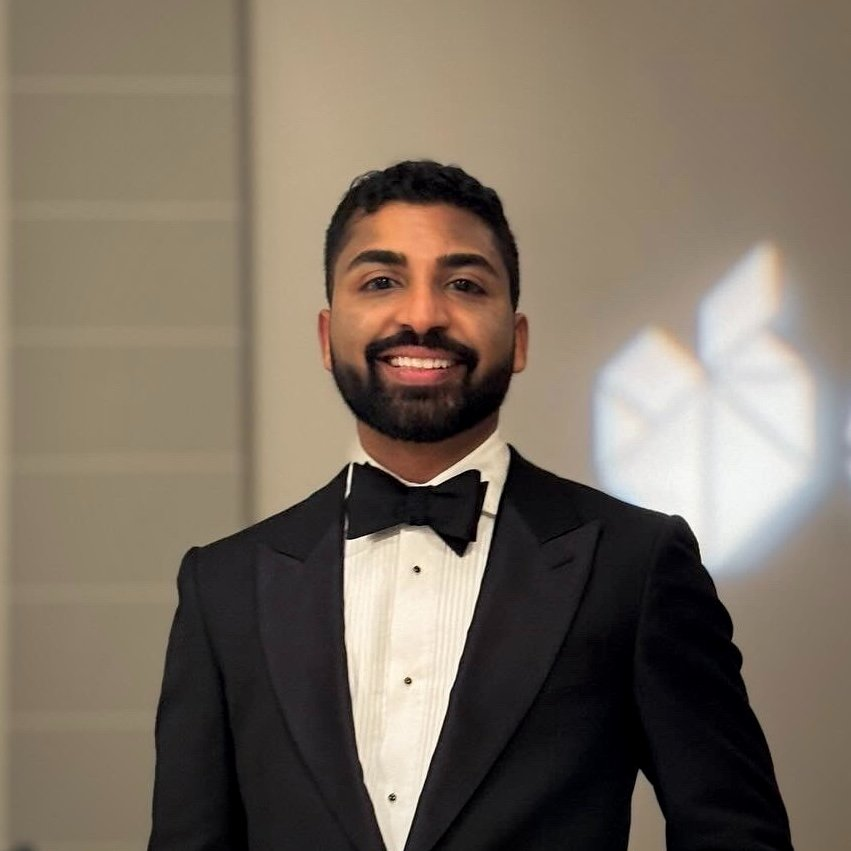
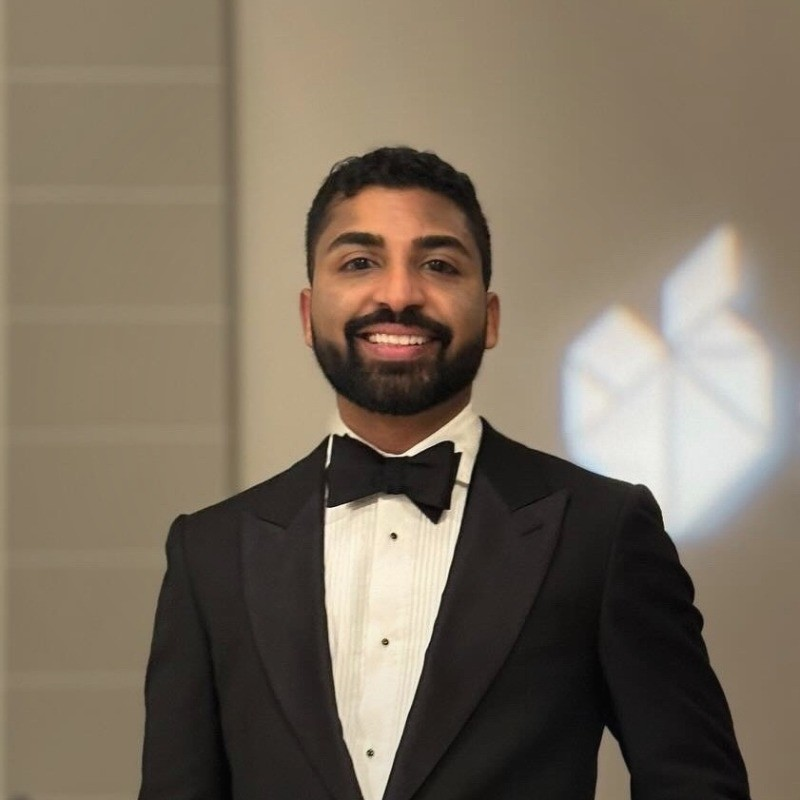
profile update

diff --git a/index.html b/index.html
@@ -23,15 +23,15 @@
         <meta property="og:description" content="Homepage for Abey Koolipuracal detailing portfolio, contact information, and other relevant links." />
         <meta property="og:url" content="https://www.abeyk.com/" />
         <meta property="og:image" content="https://www.abeyk.com/images/profile2.jpg" />
-        <meta property="og:image:width" content="851" />
-        <meta property="og:image:height" content="851" />
+        <meta property="og:image:width" content="800" />
+        <meta property="og:image:height" content="800" />
         <meta property="og:type" content="website" />
         <meta name="thumbnail" content="https://www.abeyk.com/images/profile2.jpg" />
         <PageMap>
             <DataObject type="thumbnail">
               <Attribute name="src" value="https://www.abeyk.com/images/profile2.jpg"/>
-              <Attribute name="width" value="851"/>
-              <Attribute name="height" value="851"/>
+              <Attribute name="width" value="800"/>
+              <Attribute name="height" value="800"/>
             </DataObject>
         </PageMap>
         <title>About Abey - Software Engineer @ Instagram</title>
